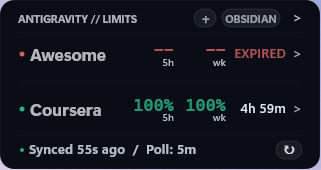
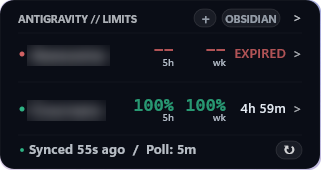
docs: add redacted compressed and expanded HUD previews to README and blur personal identifiers

diff --git a/antigravity-limits/README.md b/antigravity-limits/README.md
@@ -12,13 +12,13 @@ A modern, high-performance desktop telemetry HUD for **Google Antigravity** user
 
 ## 📸 Previews
 
-| Collapsed HUD | Expanded Detailed View |
+| Compressed Mode | Expanded Detailed View |
 | :---: | :---: |
-| ![Collapsed HUD](screenshots/hud_collapsed.png) | ![Expanded HUD](screenshots/hud_expanded.png) |
+| <img src="screenshots/hud_collapsed.png" width="300" alt="Collapsed HUD" /> | <img src="screenshots/hud_expanded.png" width="300" alt="Expanded HUD" /> |
 
 | Account Manager UI | Token Expired Alert |
 | :---: | :---: |
-| ![Account Manager](screenshots/account_manager.png) | ![Token Expired Alert](screenshots/hud_expired.png) |
+| <img src="screenshots/account_manager.png" width="440" alt="Account Manager" /> | <img src="screenshots/hud_expired.png" width="300" alt="Token Expired Alert" /> |
 
 ---
 

diff --git a/README.md b/README.md
@@ -4,6 +4,14 @@ A curated collection of modern, functional, and developer-centric desktop HUDs a
 
 ---
 
+## 📸 Previews (`antigravity-limits`)
+
+| Compressed Mode | Expanded Mode |
+| :---: | :---: |
+| <img src="antigravity-limits/screenshots/hud_collapsed.png" width="300" alt="Compressed HUD" /> | <img src="antigravity-limits/screenshots/hud_expanded.png" width="300" alt="Expanded HUD" /> |
+
+---
+
 ## 📦 Available Skins
 
 | Skin | Description | Quick Link |
